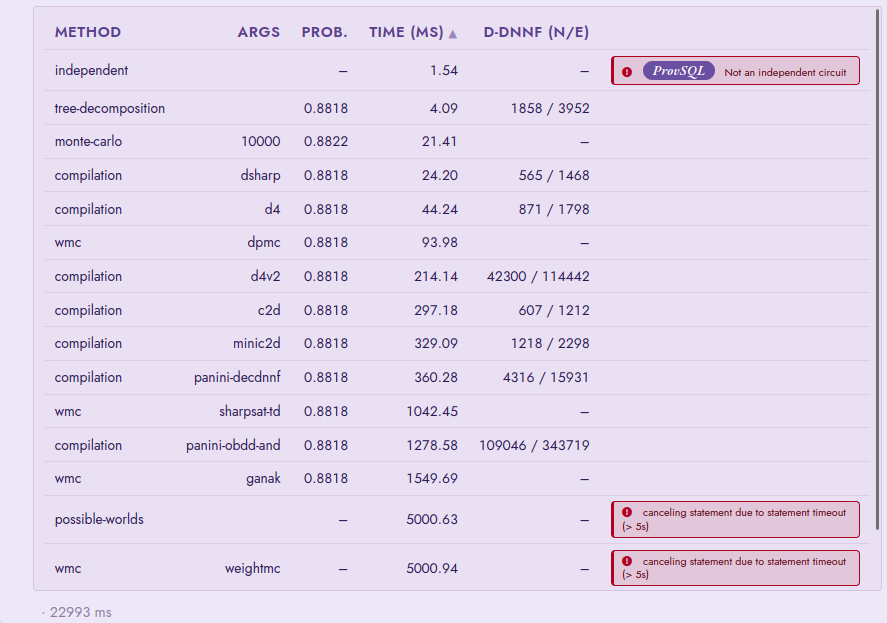
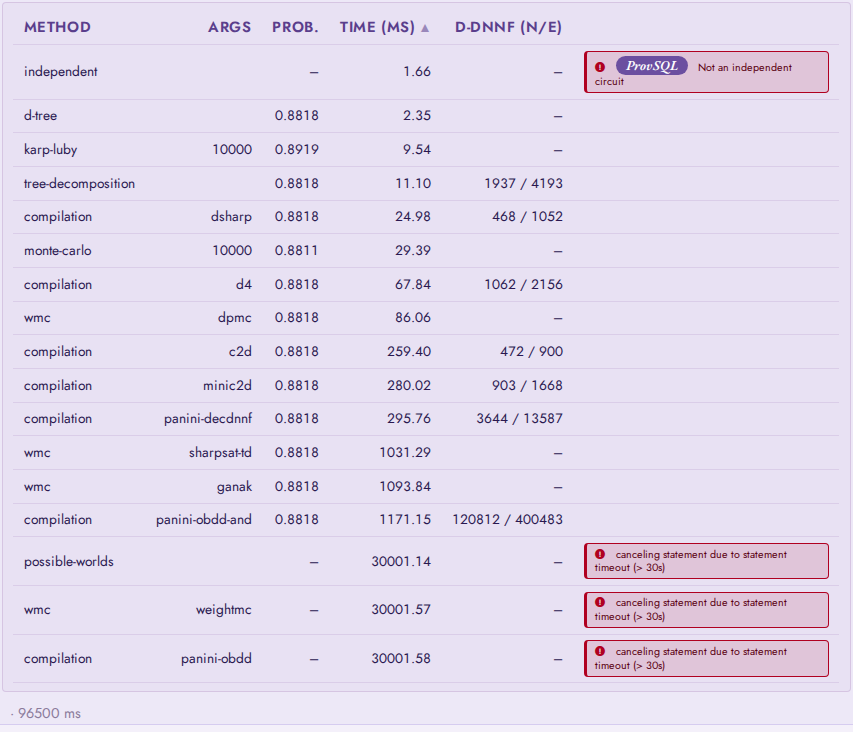
Show the cost chooser in case study 7, refresh its benchmark, and state hardness precisely

diff --git a/doc/source/user/casestudy7.rst b/doc/source/user/casestudy7.rst
@@ -20,9 +20,9 @@ tractability comes from*:
 * **Part A -- the query is safe.** Some questions are tractable whatever
   the data, because the query (with the schema's keys) is *safe*. Four
   steps cover the four ways that happens.
-* **Part B -- the query is hard.** When no query-side route applies the
-  answer is genuinely :math:`\#P`-hard, and ProvSQL hands it to a knowledge
-  compiler.
+* **Part B -- the query is hard.** When no query-side route applies,
+  computing the probability is genuinely :math:`\#P`-hard, and ProvSQL
+  hands the provenance to a knowledge compiler.
 * **Part C -- the data is well-structured.** A hard *query* can still be
   easy on *this* data, because ProvSQL compiles along the structure of the
   data itself.
@@ -267,9 +267,10 @@ too large* card in place of it. Choose
 :guilabel:`Render at depth 1`: the root is a single **μ** (Möbius-function)
 gate, each child edge labelled with its integer coefficient, the hard term
 among them cancelled to zero. (The pool is **dense** on purpose: on sparse
-data Part C's compiler would also handle it and hide the point. As with every
-Part A route, the literal lineage is kept, so ``shapley`` and ``sr_formula``
-still work on it.)
+data Part C's compiler would also handle it and hide the point. Unlike the
+safe-query rewrite of the key step, which replaces the provenance with that
+of a restructured query, the μ gate keeps the query's literal lineage as a
+child, so ``shapley`` and ``sr_formula`` still evaluate that lineage.)
 
 .. _cs7-route-map:
 
@@ -326,16 +327,22 @@ The hard query, and what a compiler does with it
 
 Set the toggle to :guilabel:`Semiring` so no Boolean shortcut fires, and
 the provenance is the literal circuit of the cyclic join -- Studio draws it,
-visibly bushy. Try ``independent``: it **errors**. Try ``tree-decomposition``
-or a compiler: ``≈ 0.8818``.
+visibly bushy. Run :guilabel:`Marginal probability` with the default
+``exact`` method: rather than trying methods in turn, ProvSQL's
+:ref:`cost-based chooser <probability-guarantees>` inspects the circuit and
+runs the exact method it expects to be cheapest, and Studio names it next to
+the result -- here *via d-tree*, ``≈ 0.8818`` in milliseconds. Forcing a
+method shows what the chooser avoided: ``independent`` **errors**, while
+``tree-decomposition`` or ``compilation`` agree on ``≈ 0.8818``.
 
 Why it is hard: with ``paper`` free, ``reviewer``, ``paper`` and ``topic``
 form a cycle with no nesting -- non-hierarchical, not inversion-free, and a
-single conjunct so nothing cancels. All of Part A is exhausted, and the
-probability is :math:`\#P`-hard :cite:`DBLP:journals/jacm/DalviS12`. The
-circuit's treewidth is **4** (against **1** for a safe query), so a real
-compiler (:guilabel:`Compiled d-D circuit` with ``d4``) turns it into a d-DNNF of
-order a thousand nodes -- and the number ``0.8818``.
+single conjunct so nothing cancels. All of Part A is exhausted, and computing
+the probability of this query is :math:`\#P`-hard in the size of the data
+:cite:`DBLP:journals/jacm/DalviS12`. The
+circuit's treewidth is **4** (against **1** for a safe query), and an
+external compiler (:guilabel:`Compiled d-D circuit` with ``d4``) turns it
+into a d-DNNF of order a thousand nodes -- and the number ``0.8818``.
 
 That compiled circuit is the object the rest of Part B inspects.
 
@@ -360,28 +367,34 @@ same mapping is a table through :sqlfunc:`tseytin_cnf_mapping`).
 Comparing compilers and methods
 ^^^^^^^^^^^^^^^^^^^^^^^^^^^^^^^^^
 
-Pick :guilabel:`Probability benchmark`: it times every probability method on the hard
-circuit, one row each, with the compiled d-DNNF size beside the run time.
-Observe the spread: the exact methods that finish (``tree-decomposition``,
-the compilers, the model counters) all agree to full precision;
-``monte-carlo`` lands in its confidence band; ``independent`` shows its
-error; and methods that do not scale -- ``possible-worlds`` enumeration --
-hit the ``statement_timeout``. :sqlfunc:`ddnnf_stats` exposes the same sizes
-as ``jsonb`` for comparing one circuit across compilers.
+Pick :guilabel:`Probability benchmark`: it times every probability method
+on the hard circuit, one row each, with the compiled d-DNNF size beside the
+run time. Observe the spread: the exact methods that finish (``d-tree``,
+``tree-decomposition``, the compilers, the model counters) all agree to full
+precision, ``d-tree`` -- the chooser's pick above -- being the fastest of
+them; the samplers ``monte-carlo`` and ``karp-luby`` land near ``0.8818``;
+``independent`` shows its error; and methods that do not scale --
+``possible-worlds`` enumeration, the ``panini-obdd`` compiler, the
+``weightmc`` counter -- hit the ``statement_timeout``. The compiled sizes
+span two orders of magnitude, from a few hundred nodes to over a hundred
+thousand; :sqlfunc:`ddnnf_stats` exposes them as ``jsonb`` for comparing one
+circuit across compilers.
 
 .. figure:: /_static/casestudy7/probability-benchmark.png
    :alt: The probability-benchmark table on the hard circuit, one row
-         per method, with method, args, probability, time, and the
-         compiled d-DNNF node/edge sizes; the compilers, tree-decomposition
-         and the model counters that finish return 0.8818, monte-carlo
-         returns 0.8822, independent shows a "not an independent circuit"
-         error, and possible-worlds and the weightmc counter hit the
+         per method sorted by time, with method, args, probability, time,
+         and the compiled d-DNNF node/edge sizes; d-tree,
+         tree-decomposition, the compilers and the model counters that
+         finish return 0.8818, monte-carlo and karp-luby return nearby
+         estimates, independent shows a "not an independent circuit"
+         error, and possible-worlds, weightmc and panini-obdd hit the
          statement timeout.
 
-   The probability benchmark on the hard circuit: the compilers,
-   ``tree-decomposition`` and the model counters agree on ``0.8818``;
-   ``monte-carlo`` lands in its band; ``independent`` reports the circuit is
-   not independent; ``possible-worlds`` and ``weightmc`` time out.
+   The probability benchmark on the hard circuit, sorted by time:
+   ``d-tree``, ``tree-decomposition``, the compilers and the model counters
+   agree on ``0.8818``; ``monte-carlo`` and ``karp-luby`` land close;
+   ``independent`` reports the circuit is not independent;
+   ``possible-worlds``, ``weightmc`` and ``panini-obdd`` time out.
 
 Which compilers appear depends on what is installed; the Tools panel (the
 :fa:`tools` button) lists the registry and flags each as available / enabled, read
@@ -413,8 +426,8 @@ before any compiler runs, so even ``independent`` answers it.
 Part C: The Data Is Well-Structured
 -----------------------------------
 
-Part B's whole-program coverage is :math:`\#P`-hard in its *shape* -- yet on
-*this* data it is tractable. When no query-side route applies, ProvSQL still
+Computing the probability of Part B's whole-program coverage is
+:math:`\#P`-hard over arbitrary data -- yet on *this* data it is tractable. When no query-side route applies, ProvSQL still
 avoids a compiler if the **data** is well-structured: it compiles a certified
 circuit along a tree decomposition of the data itself, exactly and in linear
 time -- over independent data, correlated data, and through recursion.
@@ -433,8 +446,8 @@ Set the toggle back to :guilabel:`Boolean` and re-run Part B's hard query:
     WHERE b.reviewer = e.reviewer AND e.topic = t.topic AND t.paper = b.paper
 
 Now ``independent`` **succeeds**, the same ``≈ 0.8818`` -- and no compiler
-ran. The query is still :math:`\#P`-hard in shape, but on this data the **joint
-treewidth** (the data graph together with its correlations) is bounded, so
+ran. Over arbitrary data the problem is still :math:`\#P`-hard, but on this
+data the **joint treewidth** (the data graph together with its correlations) is bounded, so
 ProvSQL's **joint-width compiler** :cite:`Amarilli2016thesis` recognises the
 shape and compiles the provenance along a tree decomposition of the *data*
 into a certified d-D that ``independent`` reads in linear time. This is the

diff --git a/doc/source/user/probabilities.rst b/doc/source/user/probabilities.rst
@@ -945,8 +945,8 @@ evaluation handles in one linear pass; no method needs to be named.
 :doc:`Case Study 7 <casestudy7>` runs the complete :math:`q_9`
 example.
 
-Like the safe-query rewrite, this is a shortcut, not a different
-result: the query's literal provenance is kept, so :sqlfunc:`shapley`,
+This is a shortcut, not a different result, and unlike the safe-query
+rewrite it keeps the query's literal provenance, so :sqlfunc:`shapley`,
 :sqlfunc:`banzhaf`, PROV export, and any *named* probability method
 (``possible-worlds``…) answer exactly as on the ordinary provenance,
 necessarily more slowly, since the literal provenance is the
